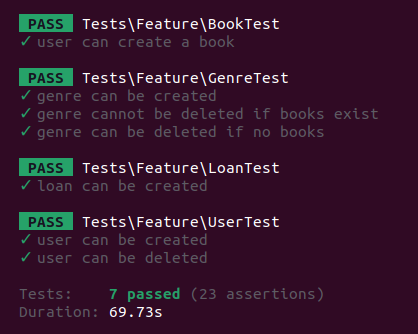
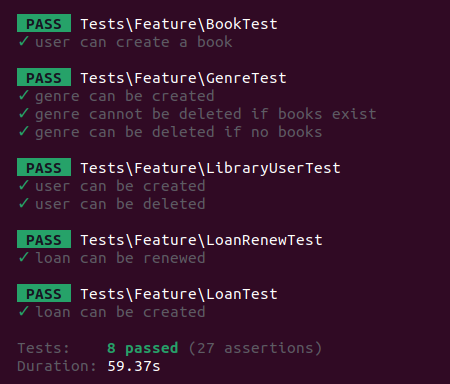
loan renew test

diff --git a/tests/Feature/LoanRenewTest.php b/tests/Feature/LoanRenewTest.php
@@ -1,0 +1,54 @@
+<?php
+
+namespace Tests\Feature;
+
+use Tests\TestCase;
+use App\Models\Loan;
+use App\Models\Book;
+use App\Models\LibraryUser;
+use App\Models\Genre;
+use Illuminate\Foundation\Testing\RefreshDatabase;
+use Illuminate\Foundation\Testing\WithoutMiddleware;
+
+class LoanRenewTest extends TestCase
+{
+    use RefreshDatabase, WithoutMiddleware;
+
+    public function test_loan_can_be_renewed()
+    {
+        $user = LibraryUser::create([
+            'name' => 'Fulano',
+            'email' => 'fulano@example.com',
+            'registration_number' => 'U-1001',
+        ]);
+
+        $genre = Genre::create(['name' => 'Ficção']);
+
+        $book = Book::create([
+            'title' => 'Livro de Teste',
+            'author' => 'Autor',
+            'registry_number' => 'LIV-1001',
+            'genre_id' => $genre->id,
+            'status' => 'loaned',
+        ]);
+
+        $loan = Loan::create([
+            'library_user_id' => $user->id,
+            'book_id' => $book->id,
+            'start_date' => now()->subDays(3),
+            'due_date' => now()->addDays(4),
+            'status' => 'pending',
+        ]);
+
+        $response = $this->patch("/emprestimos/{$loan->id}/renovar");
+
+        $response->assertRedirect('/emprestimos');
+        $response->assertSessionHas('success', 'Empréstimo renovado com sucesso por mais 7 dias.');
+
+        $loan->refresh();
+        $this->assertEquals(
+            now()->addDays(11)->toDateString(),
+            $loan->due_date->toDateString()
+        );
+    }
+}

diff --git a/routes/web.php b/routes/web.php
@@ -43,5 +43,5 @@ Route::prefix('emprestimos')->group(function () {
     Route::put('/{id}', [LoansController::class, 'update'])->name('emprestimos.update');
     Route::patch('/{id}/devolver', [LoansController::class, 'markAsReturned'])->name('emprestimos.markAsReturned');
     Route::patch('/{id}/atrasado', [LoansController::class, 'markAsLate'])->name('emprestimos.markAsLate');
-    Route::patch('/emprestimos/{id}/renovar', [LoansController::class, 'renew'])->name('emprestimos.renew');
+    Route::patch('/{id}/renovar', [LoansController::class, 'renew'])->name('emprestimos.renew');
 });
